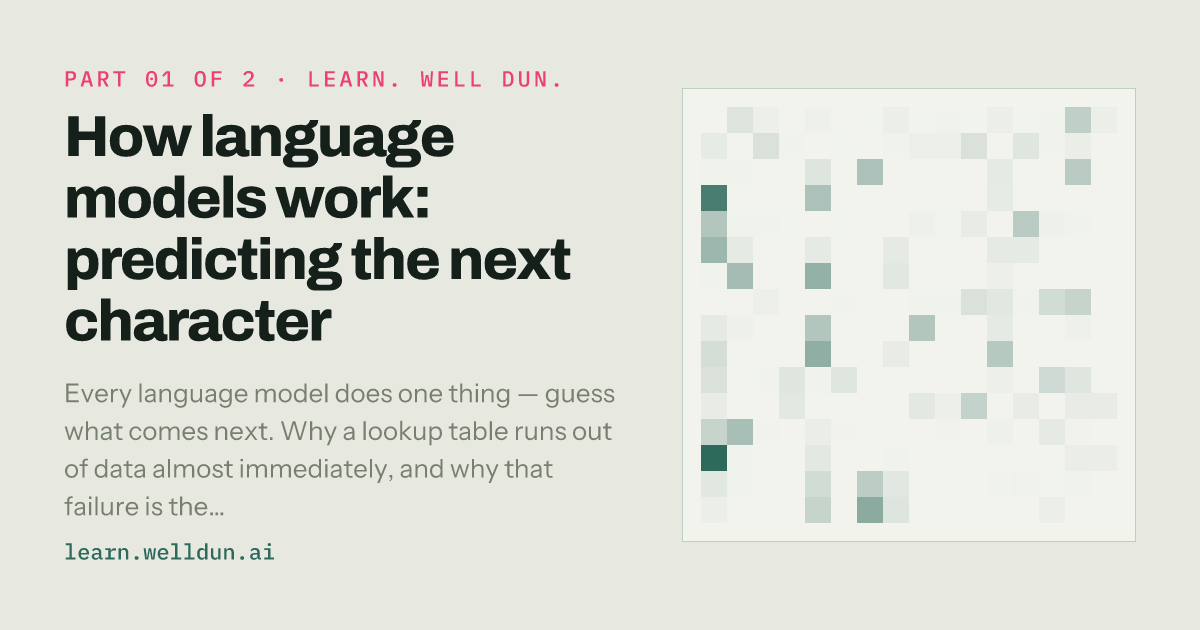
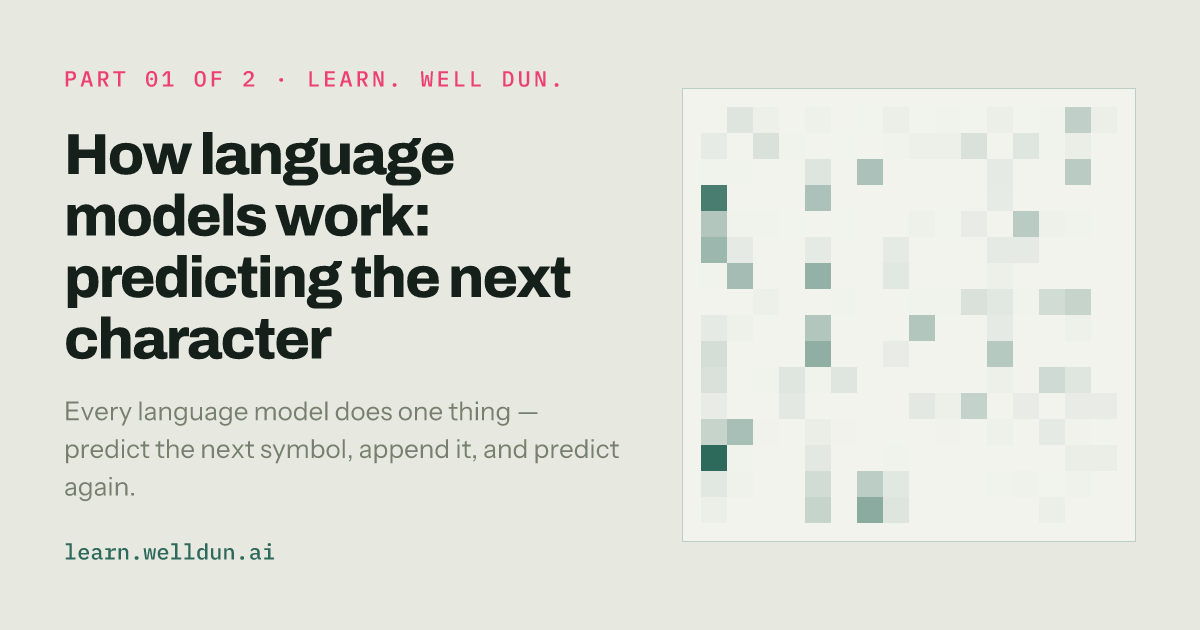
Let part one state the problem and stop there
Two sections argued against candidate solutions — a lookup table and a set of
hand-written rules — before the reader had met either. That argument belongs
next to the bigram, which is the lookup table it is about.

The lookup section also leaned on a slider that computed its numbers against a
corpus the reader could not see. A figure that asks to be trusted is the one
thing this site should not ship, and the fix is to place it where the reader
already has the model in hand, not to annotate it harder.

What is left is the task, how far it scales, and what a small model is good
for. The page carries no JavaScript at all now.

HowMuchContext and the corpus stay in the repo, unregistered so no page pays
for them, with a note in each saying where they belong.

Changed region(s): [[0.0308, 0.181, 0.4933, 0.573], [0.0308, 0.6032, 0.5242, 0.8143]]

diff --git a/src/components/site/GptWidget.tsx b/src/components/site/GptWidget.tsx
@@ -1,5 +1,4 @@
 import { BigramTable } from "../BigramTable";
-import { HowMuchContext } from "../HowMuchContext";
 import { WeightedDie } from "../WeightedDie";
 import { PythonLab } from "../PythonLab";
 import { bigramLab } from "../../labs/bigram";
@@ -13,13 +12,15 @@ import { bigramLab } from "../../labs/bigram";
  *
  * Nothing here needs the reader to have drawn anything, so there is no guard —
  * every figure works on first load.
+ *
+ * HowMuchContext is deliberately absent: it is written and working but not yet
+ * placed on a page, and registering it here would ship it to every page that
+ * uses any figure at all. Add a case back when a part needs it.
  */
 type Props = { name: string };
 
 export function GptWidget({ name }: Props) {
   switch (name) {
-    case "how-much-context":
-      return <HowMuchContext />;
     case "bigram-table":
       return <BigramTable />;
     case "weighted-die":

diff --git a/src/components/HowMuchContext.tsx b/src/components/HowMuchContext.tsx
@@ -10,6 +10,11 @@ const show = (c: string) => (c === " " ? "␣" : c === "\n" ? "⏎" : c);
 /**
  * How much of the text before a character do you need in order to guess it?
  *
+ * Not currently on any page, and not registered in GptWidget for that reason.
+ * Part one states the problem and stops there; this argues against one
+ * particular answer to it, which belongs beside the model that gives that
+ * answer — the bigram — rather than before the reader has met one.
+ *
  * Measured against the corpus rather than asserted: for each length of context,
  * how many distinct characters actually followed that exact run of text, and
  * how often the run occurred at all.
